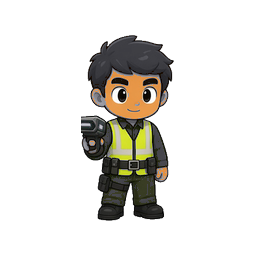
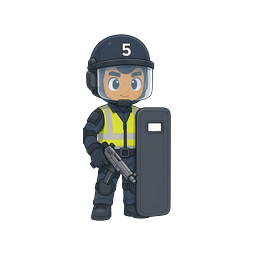
Lock Ordner canon grey/blue/red for upgrade levels
Install proposal-C Ordners under game/public/icons/units, add
ORDNER_CANON docs, and point the icon agent at those paths.

Changed region(s): [[0.3125, 0.125, 0.6875, 0.875]]

diff --git a/unit-icons-agent/docs/gallery/unit-icons-cutouts.html b/unit-icons-agent/docs/gallery/unit-icons-cutouts.html
@@ -122,7 +122,7 @@
       Erwartet: <strong>60</strong>
       · Gefunden: <strong>60</strong>
       · Fehlt: <strong>0</strong>
-      · Quelle: <code>/workspace/unit-icons-agent/assets/units</code>
+      · Quelle: <code>/workspace/game/public/icons/units</code>
     </p>
     <p class="ok">Alle 60 erwarteten freigeschnittenen Farb-Icons sind vorhanden.</p>
   </header>
@@ -138,9 +138,9 @@
       </tr>
     </thead>
     <tbody>
-      <tr><th scope="row">Grau</th><td><div class="slot"><img src="../../assets/units/fan-grey-1.png" alt="fan-grey-1.png" width="128" height="128" loading="lazy" /><code>fan-grey-1.png</code></div></td><td><div class="slot"><img src="../../assets/units/fan-grey-2.png" alt="fan-grey-2.png" width="128" height="128" loading="lazy" /><code>fan-grey-2.png</code></div></td><td><div class="slot"><img src="../../assets/units/fan-grey-3.png" alt="fan-grey-3.png" width="128" height="128" loading="lazy" /><code>fan-grey-3.png</code></div></td><td><div class="slot"><img src="../../assets/units/fan-grey-4.png" alt="fan-grey-4.png" width="128" height="128" loading="lazy" /><code>fan-grey-4.png</code></div></td><td><div class="slot"><img src="../../assets/units/fan-grey-5.png" alt="fan-grey-5.png" width="128" height="128" loading="lazy" /><code>fan-grey-5.png</code></div></td></tr>
-<tr><th scope="row">Blau</th><td><div class="slot"><img src="../../assets/units/fan-blue-1.png" alt="fan-blue-1.png" width="128" height="128" loading="lazy" /><code>fan-blue-1.png</code></div></td><td><div class="slot"><img src="../../assets/units/fan-blue-2.png" alt="fan-blue-2.png" width="128" height="128" loading="lazy" /><code>fan-blue-2.png</code></div></td><td><div class="slot"><img src="../../assets/units/fan-blue-3.png" alt="fan-blue-3.png" width="128" height="128" loading="lazy" /><code>fan-blue-3.png</code></div></td><td><div class="slot"><img src="../../assets/units/fan-blue-4.png" alt="fan-blue-4.png" width="128" height="128" loading="lazy" /><code>fan-blue-4.png</code></div></td><td><div class="slot"><img src="../../assets/units/fan-blue-5.png" alt="fan-blue-5.png" width="128" height="128" loading="lazy" /><code>fan-blue-5.png</code></div></td></tr>
-<tr><th scope="row">Rot</th><td><div class="slot"><img src="../../assets/units/fan-red-1.png" alt="fan-red-1.png" width="128" height="128" loading="lazy" /><code>fan-red-1.png</code></div></td><td><div class="slot"><img src="../../assets/units/fan-red-2.png" alt="fan-red-2.png" width="128" height="128" loading="lazy" /><code>fan-red-2.png</code></div></td><td><div class="slot"><img src="../../assets/units/fan-red-3.png" alt="fan-red-3.png" width="128" height="128" loading="lazy" /><code>fan-red-3.png</code></div></td><td><div class="slot"><img src="../../assets/units/fan-red-4.png" alt="fan-red-4.png" width="128" height="128" loading="lazy" /><code>fan-red-4.png</code></div></td><td><div class="slot"><img src="../../assets/units/fan-red-5.png" alt="fan-red-5.png" width="128" height="128" loading="lazy" /><code>fan-red-5.png</code></div></td></tr>
+      <tr><th scope="row">Grau</th><td><div class="slot"><img src="../../../game/public/icons/units/fan-grey-1.png" alt="fan-grey-1.png" width="128" height="128" loading="lazy" /><code>fan-grey-1.png</code></div></td><td><div class="slot"><img src="../../../game/public/icons/units/fan-grey-2.png" alt="fan-grey-2.png" width="128" height="128" loading="lazy" /><code>fan-grey-2.png</code></div></td><td><div class="slot"><img src="../../../game/public/icons/units/fan-grey-3.png" alt="fan-grey-3.png" width="128" height="128" loading="lazy" /><code>fan-grey-3.png</code></div></td><td><div class="slot"><img src="../../../game/public/icons/units/fan-grey-4.png" alt="fan-grey-4.png" width="128" height="128" loading="lazy" /><code>fan-grey-4.png</code></div></td><td><div class="slot"><img src="../../../game/public/icons/units/fan-grey-5.png" alt="fan-grey-5.png" width="128" height="128" loading="lazy" /><code>fan-grey-5.png</code></div></td></tr>
+<tr><th scope="row">Blau</th><td><div class="slot"><img src="../../../game/public/icons/units/fan-blue-1.png" alt="fan-blue-1.png" width="128" height="128" loading="lazy" /><code>fan-blue-1.png</code></div></td><td><div class="slot"><img src="../../../game/public/icons/units/fan-blue-2.png" alt="fan-blue-2.png" width="128" height="128" loading="lazy" /><code>fan-blue-2.png</code></div></td><td><div class="slot"><img src="../../../game/public/icons/units/fan-blue-3.png" alt="fan-blue-3.png" width="128" height="128" loading="lazy" /><code>fan-blue-3.png</code></div></td><td><div class="slot"><img src="../../../game/public/icons/units/fan-blue-4.png" alt="fan-blue-4.png" width="128" height="128" loading="lazy" /><code>fan-blue-4.png</code></div></td><td><div class="slot"><img src="../../../game/public/icons/units/fan-blue-5.png" alt="fan-blue-5.png" width="128" height="128" loading="lazy" /><code>fan-blue-5.png</code></div></td></tr>
+<tr><th scope="row">Rot</th><td><div class="slot"><img src="../../../game/public/icons/units/fan-red-1.png" alt="fan-red-1.png" width="128" height="128" loading="lazy" /><code>fan-red-1.png</code></div></td><td><div class="slot"><img src="../../../game/public/icons/units/fan-red-2.png" alt="fan-red-2.png" width="128" height="128" loading="lazy" /><code>fan-red-2.png</code></div></td><td><div class="slot"><img src="../../../game/public/icons/units/fan-red-3.png" alt="fan-red-3.png" width="128" height="128" loading="lazy" /><code>fan-red-3.png</code></div></td><td><div class="slot"><img src="../../../game/public/icons/units/fan-red-4.png" alt="fan-red-4.png" width="128" height="128" loading="lazy" /><code>fan-red-4.png</code></div></td><td><div class="slot"><img src="../../../game/public/icons/units/fan-red-5.png" alt="fan-red-5.png" width="128" height="128" loading="lazy" /><code>fan-red-5.png</code></div></td></tr>
     </tbody>
   </table>
 </section>
@@ -189,9 +189,9 @@
       </tr>
     </thead>
     <tbody>
-      <tr><th scope="row">Grau</th><td><div class="slot"><img src="../../assets/units/ordner-grey-1.png" alt="ordner-grey-1.png" width="128" height="128" loading="lazy" /><code>ordner-grey-1.png</code></div></td><td><div class="slot"><img src="../../assets/units/ordner-grey-2.png" alt="ordner-grey-2.png" width="128" height="128" loading="lazy" /><code>ordner-grey-2.png</code></div></td><td><div class="slot"><img src="../../assets/units/ordner-grey-3.png" alt="ordner-grey-3.png" width="128" height="128" loading="lazy" /><code>ordner-grey-3.png</code></div></td><td><div class="slot"><img src="../../assets/units/ordner-grey-4.png" alt="ordner-grey-4.png" width="128" height="128" loading="lazy" /><code>ordner-grey-4.png</code></div></td><td><div class="slot"><img src="../../assets/units/ordner-grey-5.png" alt="ordner-grey-5.png" width="128" height="128" loading="lazy" /><code>ordner-grey-5.png</code></div></td></tr>
-<tr><th scope="row">Blau</th><td><div class="slot"><img src="../../assets/units/ordner-blue-1.png" alt="ordner-blue-1.png" width="128" height="128" loading="lazy" /><code>ordner-blue-1.png</code></div></td><td><div class="slot"><img src="../../assets/units/ordner-blue-2.png" alt="ordner-blue-2.png" width="128" height="128" loading="lazy" /><code>ordner-blue-2.png</code></div></td><td><div class="slot"><img src="../../assets/units/ordner-blue-3.png" alt="ordner-blue-3.png" width="128" height="128" loading="lazy" /><code>ordner-blue-3.png</code></div></td><td><div class="slot"><img src="../../assets/units/ordner-blue-4.png" alt="ordner-blue-4.png" width="128" height="128" loading="lazy" /><code>ordner-blue-4.png</code></div></td><td><div class="slot"><img src="../../assets/units/ordner-blue-5.png" alt="ordner-blue-5.png" width="128" height="128" loading="lazy" /><code>ordner-blue-5.png</code></div></td></tr>
-<tr><th scope="row">Rot</th><td><div class="slot"><img src="../../assets/units/ordner-red-1.png" alt="ordner-red-1.png" width="128" height="128" loading="lazy" /><code>ordner-red-1.png</code></div></td><td><div class="slot"><img src="../../assets/units/ordner-red-2.png" alt="ordner-red-2.png" width="128" height="128" loading="lazy" /><code>ordner-red-2.png</code></div></td><td><div class="slot"><img src="../../assets/units/ordner-red-3.png" alt="ordner-red-3.png" width="128" height="128" loading="lazy" /><code>ordner-red-3.png</code></div></td><td><div class="slot"><img src="../../assets/units/ordner-red-4.png" alt="ordner-red-4.png" width="128" height="128" loading="lazy" /><code>ordner-red-4.png</code></div></td><td><div class="slot"><img src="../../assets/units/ordner-red-5.png" alt="ordner-red-5.png" width="128" height="128" loading="lazy" /><code>ordner-red-5.png</code></div></td></tr>
+      <tr><th scope="row">Grau</th><td><div class="slot"><img src="../../../game/public/icons/units/ordner-grey-1.png" alt="ordner-grey-1.png" width="128" height="128" loading="lazy" /><code>ordner-grey-1.png</code></div></td><td><div class="slot"><img src="../../../game/public/icons/units/ordner-grey-2.png" alt="ordner-grey-2.png" width="128" height="128" loading="lazy" /><code>ordner-grey-2.png</code></div></td><td><div class="slot"><img src="../../../game/public/icons/units/ordner-grey-3.png" alt="ordner-grey-3.png" width="128" height="128" loading="lazy" /><code>ordner-grey-3.png</code></div></td><td><div class="slot"><img src="../../../game/public/icons/units/ordner-grey-4.png" alt="ordner-grey-4.png" width="128" height="128" loading="lazy" /><code>ordner-grey-4.png</code></div></td><td><div class="slot"><img src="../../../game/public/icons/units/ordner-grey-5.png" alt="ordner-grey-5.png" width="128" height="128" loading="lazy" /><code>ordner-grey-5.png</code></div></td></tr>
+<tr><th scope="row">Blau</th><td><div class="slot"><img src="../../../game/public/icons/units/ordner-blue-1.png" alt="ordner-blue-1.png" width="128" height="128" loading="lazy" /><code>ordner-blue-1.png</code></div></td><td><div class="slot"><img src="../../../game/public/icons/units/ordner-blue-2.png" alt="ordner-blue-2.png" width="128" height="128" loading="lazy" /><code>ordner-blue-2.png</code></div></td><td><div class="slot"><img src="../../../game/public/icons/units/ordner-blue-3.png" alt="ordner-blue-3.png" width="128" height="128" loading="lazy" /><code>ordner-blue-3.png</code></div></td><td><div class="slot"><img src="../../../game/public/icons/units/ordner-blue-4.png" alt="ordner-blue-4.png" width="128" height="128" loading="lazy" /><code>ordner-blue-4.png</code></div></td><td><div class="slot"><img src="../../../game/public/icons/units/ordner-blue-5.png" alt="ordner-blue-5.png" width="128" height="128" loading="lazy" /><code>ordner-blue-5.png</code></div></td></tr>
+<tr><th scope="row">Rot</th><td><div class="slot"><img src="../../../game/public/icons/units/ordner-red-1.png" alt="ordner-red-1.png" width="128" height="128" loading="lazy" /><code>ordner-red-1.png</code></div></td><td><div class="slot"><img src="../../../game/public/icons/units/ordner-red-2.png" alt="ordner-red-2.png" width="128" height="128" loading="lazy" /><code>ordner-red-2.png</code></div></td><td><div class="slot"><img src="../../../game/public/icons/units/ordner-red-3.png" alt="ordner-red-3.png" width="128" height="128" loading="lazy" /><code>ordner-red-3.png</code></div></td><td><div class="slot"><img src="../../../game/public/icons/units/ordner-red-4.png" alt="ordner-red-4.png" width="128" height="128" loading="lazy" /><code>ordner-red-4.png</code></div></td><td><div class="slot"><img src="../../../game/public/icons/units/ordner-red-5.png" alt="ordner-red-5.png" width="128" height="128" loading="lazy" /><code>ordner-red-5.png</code></div></td></tr>
     </tbody>
   </table>
 </section>

diff --git a/unit-icons-agent/bot/tools/list_cutout_unit_icons.ts b/unit-icons-agent/bot/tools/list_cutout_unit_icons.ts
@@ -35,7 +35,8 @@ export default defineTool({
         notes: [
           "Nur freigeschnittene Farbvarianten (grey/blue/red × Lv1–5).",
           "Basis-Icons ohne Farb-Suffix (z.B. fan-1.png) werden ignoriert.",
-          "Fans: verbindlicher Kanon docs/icons/FAN_CANON.md — nur game/public/icons/units/fan-*.png für neue Spielversionen.",
+          "Fans: Kanon docs/icons/FAN_CANON.md — game/public/icons/units/fan-*.png",
+          "Ordner: Kanon docs/icons/ORDNER_CANON.md — game/public/icons/units/ordner-*.png",
         ],
       },
       rootsScanned: roots,

diff --git a/docs/icons/ORDNER_CANON.md b/docs/icons/ORDNER_CANON.md
@@ -1,0 +1,60 @@
+# Ordner-Icons — verbindlicher Kanon
+
+**Status:** freigegeben für alle neuen Spielversionen  
+**Stand:** 2026-10-08  
+**Quelle der Wahrheit:** `game/public/icons/units/ordner-{grey|blue|red}-{1..5}.png`
+
+Ältere Ordner-Varianten (andere Props-/Helm-Leiter) dürfen **nicht** mehr für neue Builds, Mockups oder Agent-Generierungen verwendet werden.
+
+Maschinenlesbar: [`ordner-canon.json`](./ordner-canon.json)  
+Übersicht: [`ordners-all-colors.png`](./ordners-all-colors.png)
+
+## Dateipfade
+
+| Farbe | Pfade |
+| --- | --- |
+| Grau (neutral) | `game/public/icons/units/ordner-grey-1.png` … `ordner-grey-5.png` |
+| Blau (Heim) | `game/public/icons/units/ordner-blue-1.png` … `ordner-blue-5.png` |
+| Rot (Gäste) | `game/public/icons/units/ordner-red-1.png` … `ordner-red-5.png` |
+
+Spiegel: `unit-icons-agent/assets/units/ordner-*.png`  
+Arbeitsnotizen: `unit-icons-agent/docs/ordner-progression/` (nur Doku).
+
+## Stil
+
+- Wie die bisherigen blauen Ordner: Bloons-/Comic, großer Kopf, kurze Beine, dicke Outlines
+- **Ganzfigurig**, 256×256 PNG RGBA freigestellt, Figur komplett im Frame
+- **Warnweste** (gelb/neon, reflektierende Streifen) über allen Leveln über der Kleidung
+
+## Kopfbedeckung & Nummer
+
+| Level | Kopf | Nummer |
+| --- | --- | --- |
+| 1–2 | Baseball-Cap | Level-Ziffer auf der Cap |
+| 3–4 | Sicherheits-/Polizeihelm (ohne Vollvisier) | Level-Ziffer auf dem Helm |
+| 5 | Polizeihelm **mit Visier/Gesichtsschutz** | **5** auf dem Helm |
+
+## Upgrade-Stufen (Bewaffnung / Schutz)
+
+| Level | Bewaffnung | Schutz |
+| --- | --- | --- |
+| 1 | **Funkgerät / Mikro** | Warnweste, leichte Kleidung |
+| 2 | **Schlagstock** | Cap, optional Handschuhe |
+| 3 | **Schlagstock** | Helm + robust: Handschuhe, Knie-/Ellenbogenschützer |
+| 4 | **Polizeischild + Pistole** | Helm, mind. so robust wie Lv3 |
+| 5 | **Polizeischild + Maschinengewehr** | Helm+Visier, Vollschutz |
+
+## Regeln für Agents & neue Versionen
+
+1. Nur die 15 Dateien unter `game/public/icons/units/ordner-{color}-{level}.png` laden.
+2. Keine Regeneration der Ordner, solange dieser Kanon gilt — außer ausdrücklicher Revisions-Auftrag.
+3. Neue Spielstände / Branches übernehmen diese Pfade.
+4. Fans haben einen eigenen Kanon (`FAN_CANON.md`); Ultras/Hooligans sind getrennt.
+
+## Kurz-Check
+
+- [ ] Dateiname `ordner-{grey|blue|red}-{1-5}.png`
+- [ ] Ganzfigur, nichts abgeschnitten
+- [ ] Warnweste sichtbar
+- [ ] Nummer auf Cap/Helm = Level
+- [ ] Props: Funk → Stock → Stock+Pads → Schild+Pistole → Schild+MG

diff --git a/unit-icons-agent/bot/instructions.md b/unit-icons-agent/bot/instructions.md
@@ -10,13 +10,16 @@ You inventory and display **freigeschnittene Personen-Icons** for LaneLink / Tea
 - Filename schema: `{type}-{color}-{level}.png` (e.g. `ultra-red-3.png`)
 - Ignore base icons without a color suffix (`fan-1.png`) and ignore stands/UI assets
 
-## Fan canon (mandatory)
+## Approved canons (mandatory)
 
-Fans are locked to the approved full-body set. For any new game version, mockup, or recommendation:
+For any new game version, mockup, or recommendation:
 
-1. Read repo `docs/icons/FAN_CANON.md` / `docs/icons/fan-canon.json` when available.
-2. Use only `game/public/icons/units/fan-{grey|blue|red}-{1..5}.png` (mirrored in `assets/units/`).
-3. Do **not** revive legacy waist-up fans or invent a different gear ladder unless the user explicitly asks to revise the canon.
+| Unit | Rules | Paths |
+| --- | --- | --- |
+| Fans | `docs/icons/FAN_CANON.md` | `game/public/icons/units/fan-{grey\|blue\|red}-{1..5}.png` |
+| Ordner | `docs/icons/ORDNER_CANON.md` | `game/public/icons/units/ordner-{grey\|blue\|red}-{1..5}.png` |
+
+Mirrored under `assets/units/`. Do **not** revive legacy art or invent a different gear ladder unless the user explicitly asks to revise the canon.
 
 Bundled snapshot: `assets/units/`. Also scan `game/public/icons/units/` when present.
 
@@ -25,7 +28,7 @@ Bundled snapshot: `assets/units/`. Also scan `game/public/icons/units/` when pre
 1. Call `list_cutout_unit_icons`.
 2. Call `build_unit_icon_gallery` so the user gets a browsable HTML grid.
 3. Call `record_icon_inventory` once with counts, missing filenames, and gallery path.
-4. Reply short in German: how many found of 60, gallery path, and any missing files. Mention that Fans follow `FAN_CANON`.
+4. Reply short in German: how many found of 60, gallery path, and any missing files. Mention Fans → `FAN_CANON`, Ordner → `ORDNER_CANON`.
 
 ## Memory
 

diff --git a/unit-icons-agent/bot/skills/show-cutout-units.md b/unit-icons-agent/bot/skills/show-cutout-units.md
@@ -15,25 +15,15 @@ Alle abgelegten Personen-Icons zeigen, die als freigeschnittene RGBA-PNGs in **G
 
 Farben: `grey` (Grau), `blue` (Blau), `red` (Rot). Erwartung: **4 × 3 × 5 = 60** Dateien.
 
-## Fan-Kanon (verbindlich)
+## Kanons (verbindlich)
 
-Fans haben einen freigegebenen Kanon — **nur** diese Dateien für neue Spielversionen:
-
-- Repo-Regeln: `docs/icons/FAN_CANON.md` / `docs/icons/fan-canon.json`
-- Runtime: `game/public/icons/units/fan-{grey|blue|red}-{1..5}.png`
-- Agent-Spiegel: `assets/units/fan-*.png`
-
-Kurzregeln:
-
-| Level | Gear | Stimmung |
+| Unit | Regeln | Kurzleiter |
 | --- | --- | --- |
-| 1 | Trikot #1 + Bier (kein Fähnchen) | ruhig |
-| 2 | + Fähnchen · #2 | freudig |
-| 3 | + Schal + Baseball-Cap · #3 | singt |
-| 4 | größere Fahne · #4 | jubelt |
-| 5 | große Fahne · #5 | Eskalation |
+| Fans | `docs/icons/FAN_CANON.md` | Trikot+Bier → Fähnchen → Cap+Schal → große Fahne; Nummer=Level |
+| Ordner | `docs/icons/ORDNER_CANON.md` | Funk → Stock → Stock+Pads → Schild+Pistole → Schild+MG; Cap/Helm-Nummer=Level; Warnweste immer |
 
-Ganzfigurig, kurze Hose/Trikot, Bier immer, Fahne/Cap in Lagerfarbe. Keine Legacy-Fans regenerieren oder empfehlen.
+Runtime: `game/public/icons/units/{fan\|ordner}-{grey\|blue\|red}-{1..5}.png`  
+Keine Legacy-Varianten regenerieren oder empfehlen.
 
 ## Ablauf
 

diff --git a/unit-icons-agent/README.md b/unit-icons-agent/README.md
@@ -4,20 +4,22 @@ BDK-Agent für **freigeschnittene Personen-Icons** (LaneLink / Team-Tower-Defens
 
 Zieht die abgelegten Unit-Cutouts und zeigt alle Varianten in **Grau / Blau / Rot** für die Stufen **1–5**.
 
-## Fan-Kanon
+## Icon-Kanons
 
-Fans sind freigegeben — Regeln im Repo-Root:
+| Unit | Regeln | Assets |
+| --- | --- | --- |
+| Fans | [`FAN_CANON.md`](../docs/icons/FAN_CANON.md) | `../game/public/icons/units/fan-*.png` |
+| Ordner | [`ORDNER_CANON.md`](../docs/icons/ORDNER_CANON.md) | `../game/public/icons/units/ordner-*.png` |
 
-- [`docs/icons/FAN_CANON.md`](../docs/icons/FAN_CANON.md)
-- Assets: `../game/public/icons/units/fan-*.png` (Spiegel: `assets/units/fan-*.png`)
+Spiegel für den Agent: `assets/units/`.
 
 ## Icon-Quelle
 
 | Quelle | Rolle |
 | --- | --- |
-| `../game/public/icons/units/` | **Runtime / Kanon** für Fans |
+| `../game/public/icons/units/` | **Runtime / Kanon** (Fans + Ordner) |
 | `assets/units/` | Bundled Spiegel für den Agent |
-| `../docs/icons/FAN_CANON.md` | Verbindliche Fan-Regeln |
+| `../docs/icons/*_CANON.md` | Verbindliche Regeln |
 
 Schema: `{fan\|ultra\|hooligan\|ordner}-{grey\|blue\|red}-{1..5}.png` → **60** Icons.
 

diff --git a/docs/icons/README.md b/docs/icons/README.md
@@ -1,11 +1,12 @@
 # Icons — LaneLink / Team-Tower-Defense
 
-## Fan-Kanon (verbindlich)
+## Verbindliche Kanons
 
-Ab sofort gelten für **Fans** nur noch die freigegebenen Ganzkörper-Icons:
+| Unit | Regeln | Assets |
+| --- | --- | --- |
+| **Fans** | [`FAN_CANON.md`](./FAN_CANON.md) · [`fan-canon.json`](./fan-canon.json) | `game/public/icons/units/fan-*.png` |
+| **Ordner** | [`ORDNER_CANON.md`](./ORDNER_CANON.md) · [`ordner-canon.json`](./ordner-canon.json) | `game/public/icons/units/ordner-*.png` |
 
-→ **[`FAN_CANON.md`](./FAN_CANON.md)** · [`fan-canon.json`](./fan-canon.json)
+Übersichten: [`fans-all-colors.png`](./fans-all-colors.png) · [`ordners-all-colors.png`](./ordners-all-colors.png)
 
-Runtime-Pfad: `game/public/icons/units/fan-{grey|blue|red}-{1..5}.png`
-
-Andere Unit-Typen (Ultra, Hooligan, Ordner) und Stände haben eigene Manifeste; dieses Verzeichnis regelt den Fan-Kanon für neue Spielversionen.
+Für **neue Spielversionen** nur diese freigegebenen Dateien verwenden. Ultras/Hooligans/Stände haben eigene Manifeste.

diff --git a/README.md b/README.md
@@ -2,12 +2,13 @@
 
 LaneLink — Stadion-Tower-Defense.
 
-## Fan-Icons (verbindlich)
+## Icon-Kanons (verbindlich)
 
-Für **neue Spielversionen** gelten ausschließlich die freigegebenen Ganzkörper-Fans:
+Für **neue Spielversionen** gelten ausschließlich die freigegebenen Ganzkörper-Icons:
 
-- Regeln: [`docs/icons/FAN_CANON.md`](docs/icons/FAN_CANON.md)
-- Machine-readable: [`docs/icons/fan-canon.json`](docs/icons/fan-canon.json)
-- Assets: `game/public/icons/units/fan-{grey|blue|red}-{1..5}.png`
+| Unit | Regeln | Assets |
+| --- | --- | --- |
+| Fans | [`docs/icons/FAN_CANON.md`](docs/icons/FAN_CANON.md) | `game/public/icons/units/fan-{grey\|blue\|red}-{1..5}.png` |
+| Ordner | [`docs/icons/ORDNER_CANON.md`](docs/icons/ORDNER_CANON.md) | `game/public/icons/units/ordner-{grey\|blue\|red}-{1..5}.png` |
 
-Ältere Fan-Grafiken nicht mehr verwenden.
+Ältere Grafiken derselben Typen nicht mehr verwenden.

diff --git a/unit-icons-agent/docs/ordner-progression/README.md b/unit-icons-agent/docs/ordner-progression/README.md
@@ -1,17 +1,7 @@
-# Ordner-Progression (Arbeit)
+# Ordner-Progression
 
-**Basis:** blaue Ordner (`refs/`). **Zuerst Grau.**
+> **Kanon freigegeben.** Verbindliche Regeln und Runtime-Pfade:
+> [`docs/icons/ORDNER_CANON.md`](../../../docs/icons/ORDNER_CANON.md)
 
-## Aktuelle Leiter (Vorschlag C — eskalativer)
-
-| Level | Kopf | Bewaffnung / Schutz |
-| --- | --- | --- |
-| 1 | Cap **#1** | Warnweste + **Funk/Mikro** |
-| 2 | Cap **#2** | + **Schlagstock** |
-| 3 | Helm **#3** | Schlagstock + robust (Pads/Handschuhe) |
-| 4 | Helm **#4** | Schild + **Pistole** |
-| 5 | Helm+Visier **#5** | Schild + **Maschinengewehr** |
-
-Warnweste immer. Ganzfigurig, kein Crop.
-
-Vorschläge: A (erster) · B (Details) · **C (Eskalation Waffen)** aktuell.
+Finale Kopie: `final/` · Arbeitsarchiv: `proposals/` (A/B/C).  
+**Für neue Spielversionen** immer `game/public/icons/units/ordner-*.png` verwenden.

diff --git a/game/public/icons/units/README.md b/game/public/icons/units/README.md
@@ -1,9 +1,8 @@
 # Unit icons
 
-## Fans (kanonisch)
+## Kanons (verbindlich für neue Spielversionen)
 
-Nur diese Dateien für Fans in neuen Spielversionen:
-
-`fan-{grey|blue|red}-{1..5}.png`
-
-Regeln: [`docs/icons/FAN_CANON.md`](../../../../docs/icons/FAN_CANON.md)
+| Typ | Dateien | Regeln |
+| --- | --- | --- |
+| Fans | `fan-{grey\|blue\|red}-{1..5}.png` | [`docs/icons/FAN_CANON.md`](../../../../docs/icons/FAN_CANON.md) |
+| Ordner | `ordner-{grey\|blue\|red}-{1..5}.png` | [`docs/icons/ORDNER_CANON.md`](../../../../docs/icons/ORDNER_CANON.md) |
